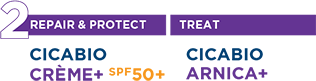
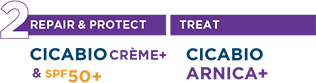
Update

diff --git a/cicabiosp2/images/slide2.css b/cicabiosp2/images/slide2.css
@@ -139,7 +139,7 @@
   left: 608px;
   top: 483px;
   width: 316px;
-  height: 81px;
+  height: 83px;
 	animation: fadeInRight 0.5s;
 	animation-delay: 3.9s;
 	animation-fill-mode: both;
@@ -148,9 +148,9 @@
 
 .s13 {
 	position: absolute;
-  left: 641px;
-  top: 578px;
-  width: 110px;
+  left: 629px;
+  top: 577px;
+  width: 150px;
   height: 157px;
 	animation: zoomIn 0.5s;
 	animation-delay: 4.2s;
@@ -161,8 +161,8 @@
 
 .s14 {
 	position: absolute;
-  left: 818px;
-  top: 601px;
+  left: 815px;
+  top: 598px;
   width: 47px;
   height: 133px;
 	animation: zoomIn 0.5s;
